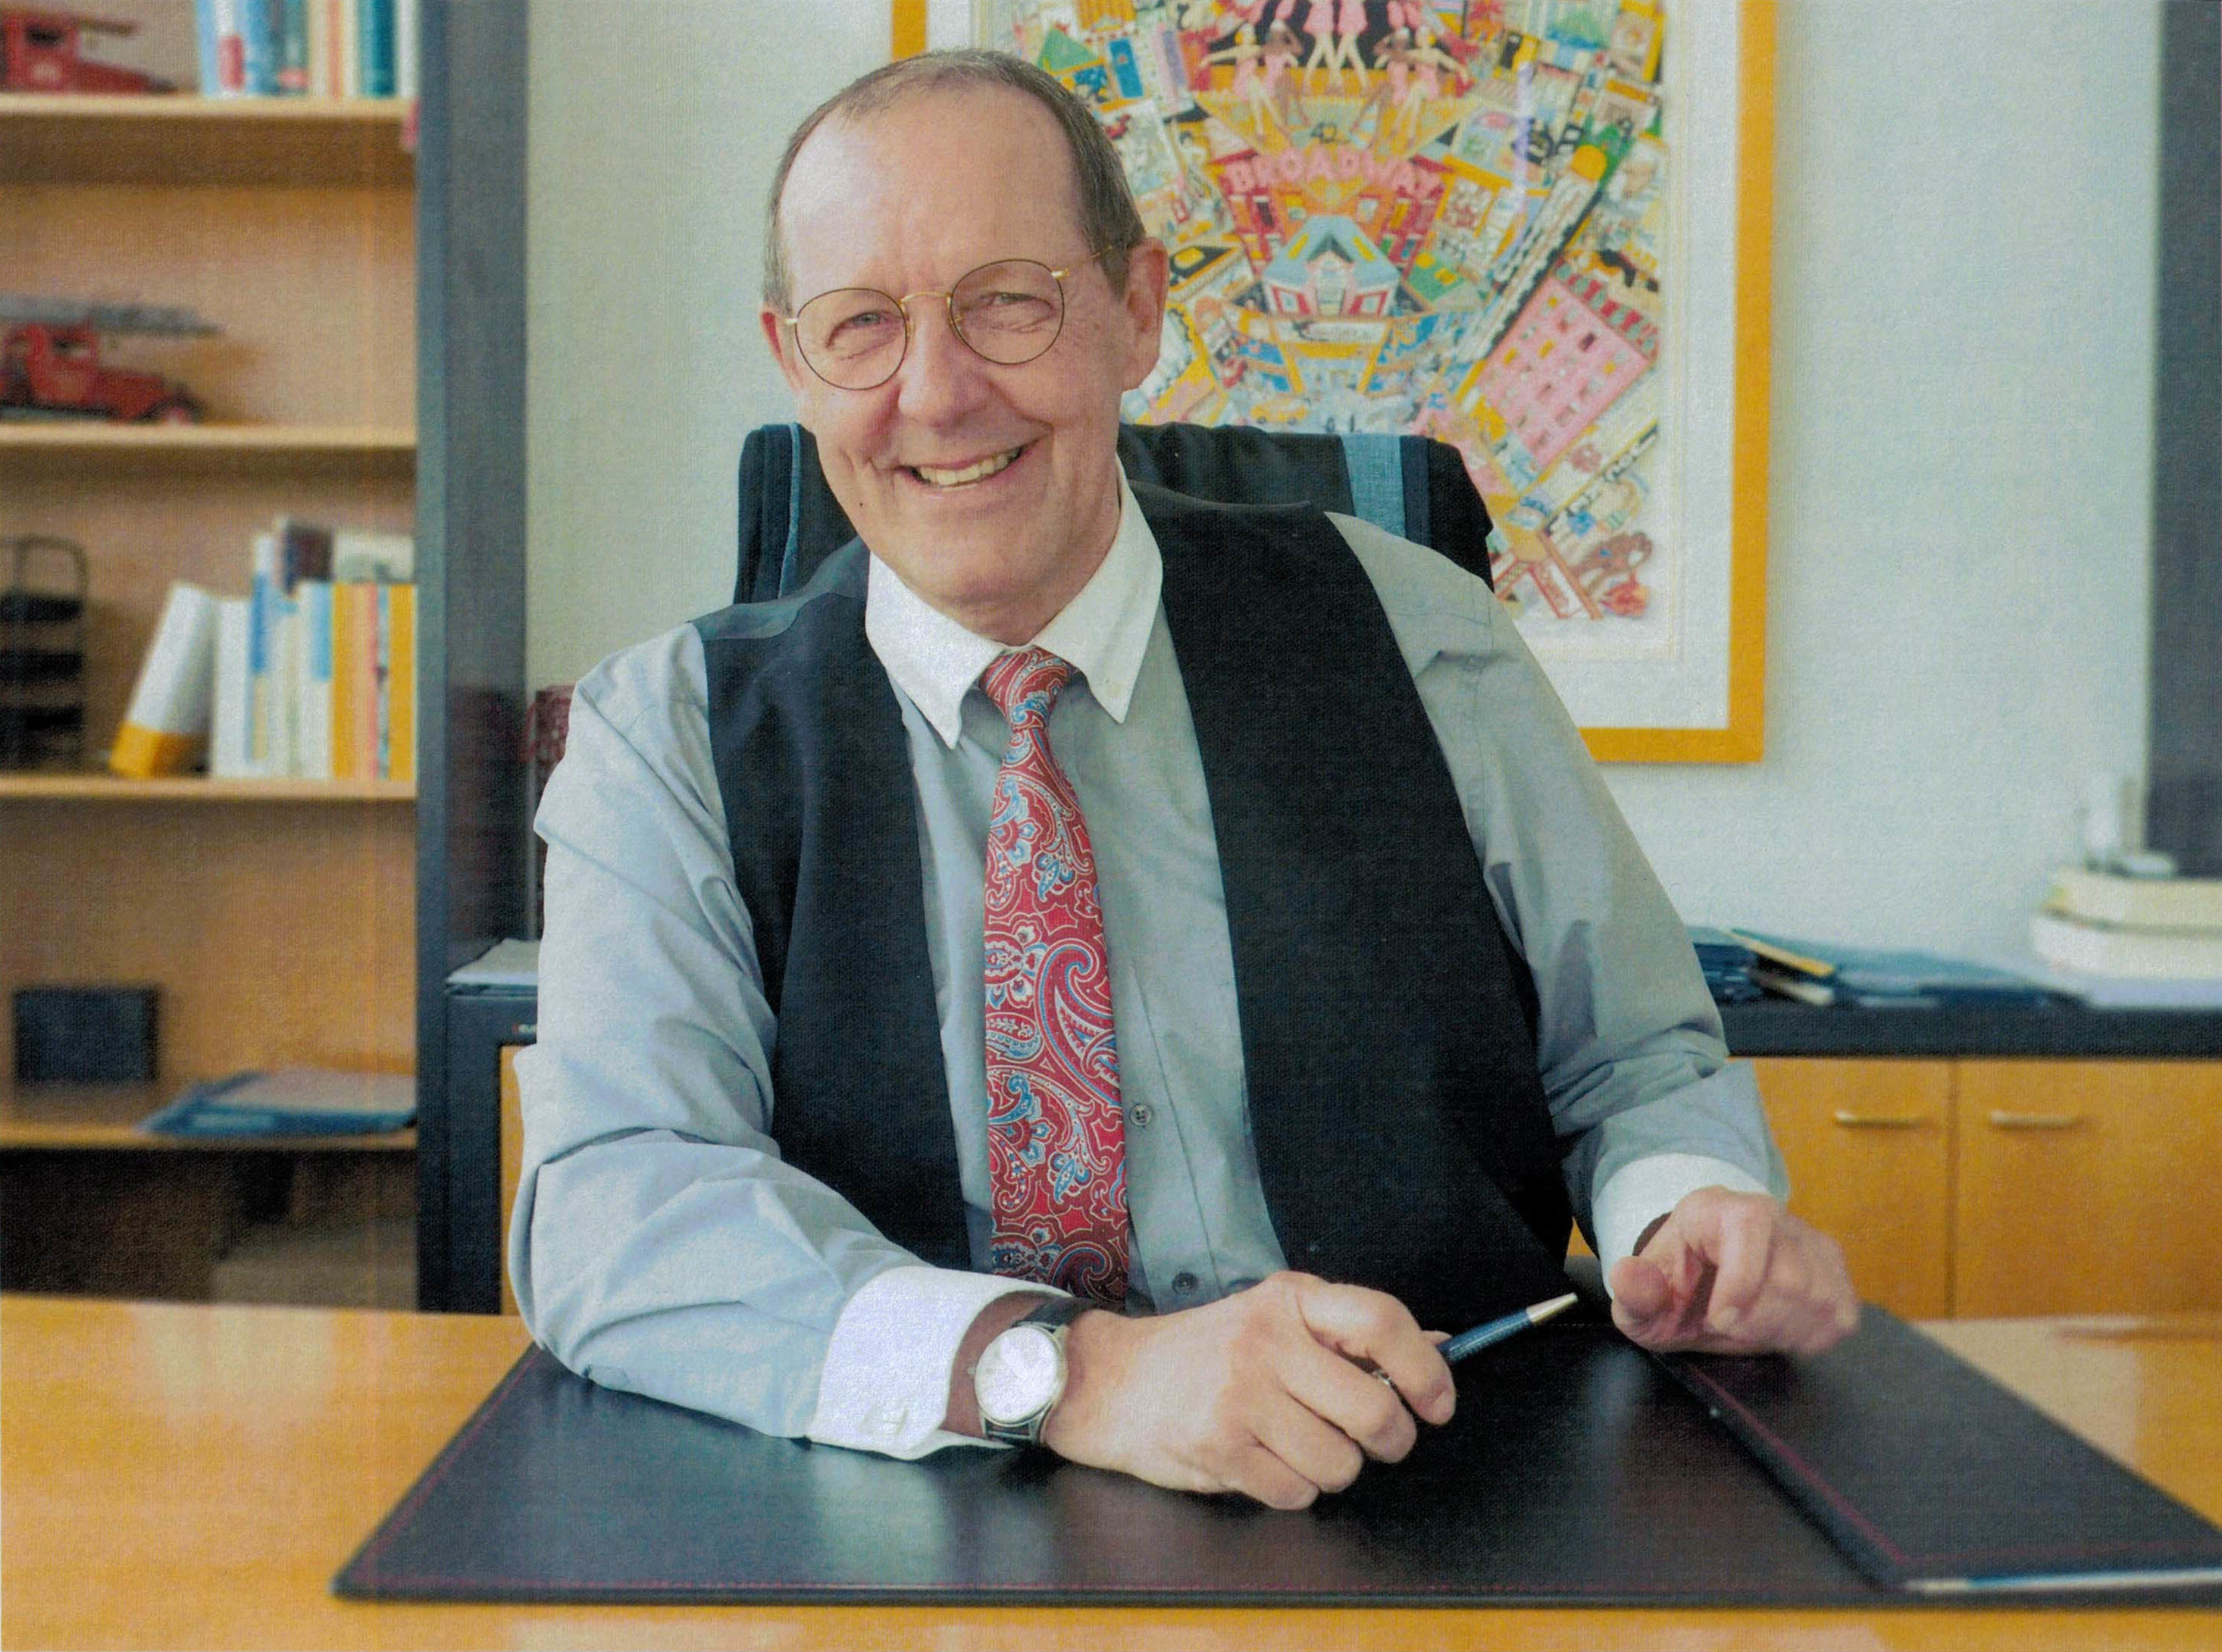
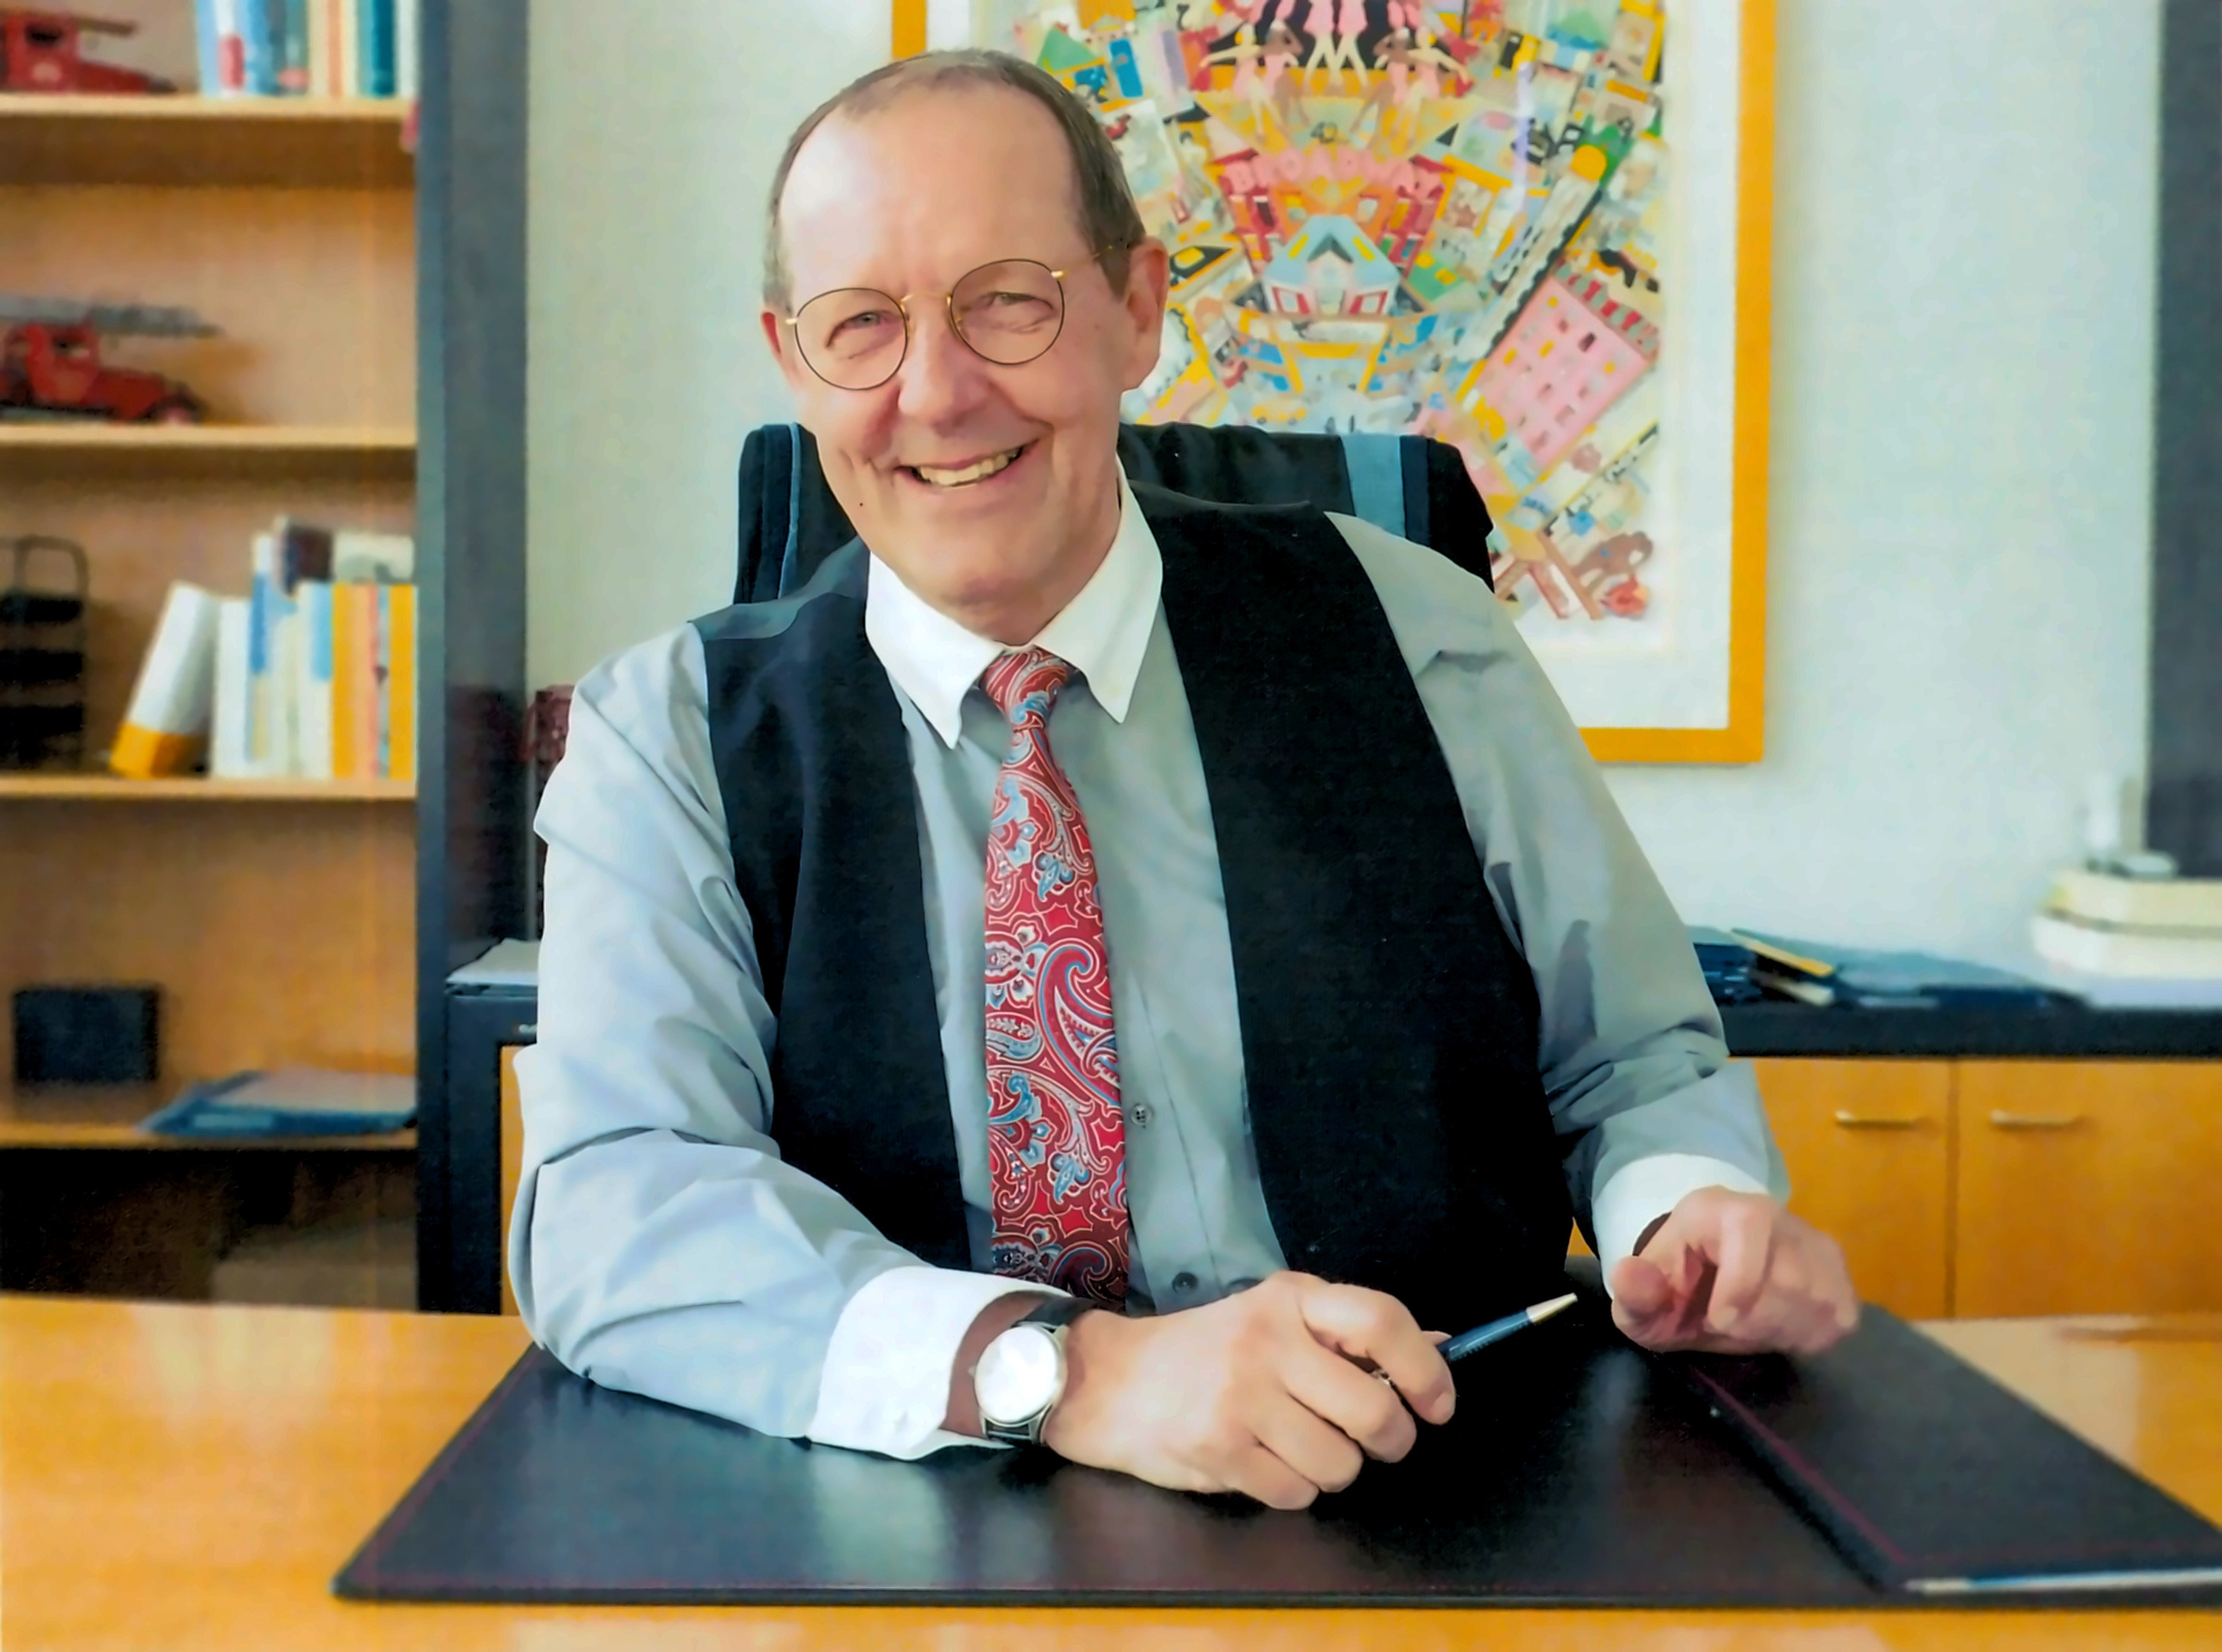
improve portrait with script

diff --git a/enhance_image.py b/enhance_image.py
@@ -1,0 +1,134 @@
+#!/usr/bin/env python3
+"""
+Bildverbesserung für gescannte Fotokopie
+=========================================
+Verarbeitet CCI_000001.jpg (gescannte Fotokopie) und erzeugt
+eine qualitativ verbesserte Version als portrait_enhanced.jpg.
+
+Alle Parameter als Konstanten – einfach oben anpassen und neu ausführen.
+"""
+
+import sys
+import os
+
+# ── Abhängigkeiten prüfen ────────────────────────────────────────────────────
+try:
+    import cv2
+    import numpy as np
+    from PIL import Image, ImageEnhance, ImageFilter
+except ImportError as e:
+    print(f"Fehlende Abhängigkeit: {e}")
+    print("Bitte installieren: pip install opencv-python pillow numpy")
+    sys.exit(1)
+
+# ── Parameter (hier anpassen) ────────────────────────────────────────────────
+
+INPUT_PATH  = "images/CCI_000001.jpg"
+OUTPUT_PATH = "images/portrait_enhanced.jpg"
+JPEG_QUALITY = 92          # 1–95, höher = besser aber größere Datei
+
+# Descreening (Halbtonraster entfernen)
+# Größerer Kernel = stärkeres Weichzeichnen des Rasters
+# Empfehlung: 3 (schwach) bis 7 (stark)
+DESCREEN_KERNEL  = 5       # muss ungerade sein
+DESCREEN_SIGMA   = 1.0     # Stärke des Gaußfilters
+
+# Rauschreduzierung (fastNlMeansDenoisingColored)
+# h/hColor: 1–10; höher = weniger Rauschen, aber weicheres Bild
+DENOISE_H        = 6
+DENOISE_H_COLOR  = 6
+DENOISE_TEMPLATE = 7       # Template-Fenstergröße (ungerade)
+DENOISE_SEARCH   = 21      # Suchfenster-Größe (ungerade)
+
+# Farbkorrektur (Pillow ImageEnhance.Color)
+# 1.0 = unverändert, >1.0 = kräftiger, <1.0 = blasser
+COLOR_ENHANCE    = 1.08
+
+# Kontrast (Pillow ImageEnhance.Contrast)
+# 1.0 = unverändert, 1.2 = +20 % Kontrast
+CONTRAST_ENHANCE = 1.18
+
+# Helligkeit (Pillow ImageEnhance.Brightness)
+# 1.0 = unverändert, 1.05 = leicht heller
+BRIGHTNESS_ENHANCE = 1.05
+
+# Unschärfemaske (Schärfe zurückgewinnen nach Weichzeichnung)
+# radius: Radius des Unschärfe-Halos (px)
+# percent: Stärke der Schärfung in %
+# threshold: Mindestunterschied für Schärfung (0–255)
+UNSHARP_RADIUS    = 1.5
+UNSHARP_PERCENT   = 130
+UNSHARP_THRESHOLD = 3
+
+# ── Verarbeitung ─────────────────────────────────────────────────────────────
+
+def main():
+    if not os.path.exists(INPUT_PATH):
+        print(f"Fehler: Eingabedatei nicht gefunden: {INPUT_PATH}")
+        sys.exit(1)
+
+    print(f"Lade Bild: {INPUT_PATH}")
+    img_cv = cv2.imread(INPUT_PATH)
+    if img_cv is None:
+        print("Fehler: Bild konnte nicht geladen werden.")
+        sys.exit(1)
+
+    h, w = img_cv.shape[:2]
+    print(f"Bildgröße: {w} x {h} px")
+
+    # 1. Descreening – Halbtonraster (Druckpunkte der Fotokopie) entfernen
+    print("Schritt 1/5: Descreening (Gaußfilter) …")
+    img_cv = cv2.GaussianBlur(img_cv, (DESCREEN_KERNEL, DESCREEN_KERNEL), DESCREEN_SIGMA)
+
+    # 2. Rauschreduzierung
+    print("Schritt 2/5: Rauschreduzierung …")
+    img_cv = cv2.fastNlMeansDenoisingColored(
+        img_cv,
+        None,
+        h=DENOISE_H,
+        hColor=DENOISE_H_COLOR,
+        templateWindowSize=DENOISE_TEMPLATE,
+        searchWindowSize=DENOISE_SEARCH,
+    )
+
+    # 3. Konvertierung zu Pillow (BGR → RGB)
+    img_pil = Image.fromarray(cv2.cvtColor(img_cv, cv2.COLOR_BGR2RGB))
+
+    # 4. Farbkorrektur
+    print("Schritt 3/5: Farbkorrektur …")
+    img_pil = ImageEnhance.Color(img_pil).enhance(COLOR_ENHANCE)
+
+    # 5. Kontrast
+    print("Schritt 4/5: Kontrast & Helligkeit …")
+    img_pil = ImageEnhance.Contrast(img_pil).enhance(CONTRAST_ENHANCE)
+    img_pil = ImageEnhance.Brightness(img_pil).enhance(BRIGHTNESS_ENHANCE)
+
+    # 6. Schärfe zurückgewinnen (Unschärfemaske)
+    print("Schritt 5/5: Schärfen …")
+    img_pil = img_pil.filter(
+        ImageFilter.UnsharpMask(
+            radius=UNSHARP_RADIUS,
+            percent=UNSHARP_PERCENT,
+            threshold=UNSHARP_THRESHOLD,
+        )
+    )
+
+    # 7. Speichern
+    os.makedirs(os.path.dirname(OUTPUT_PATH), exist_ok=True)
+    img_pil.save(OUTPUT_PATH, "JPEG", quality=JPEG_QUALITY, optimize=True)
+
+    size_in  = os.path.getsize(INPUT_PATH)  / 1024
+    size_out = os.path.getsize(OUTPUT_PATH) / 1024
+    print(f"\nFertig!")
+    print(f"  Eingabe:  {INPUT_PATH}  ({size_in:.0f} KB)")
+    print(f"  Ausgabe:  {OUTPUT_PATH}  ({size_out:.0f} KB)")
+    print(f"\nParameter zum Feinjustieren (oben im Skript):")
+    print(f"  Descreening:  DESCREEN_KERNEL={DESCREEN_KERNEL}, DESCREEN_SIGMA={DESCREEN_SIGMA}")
+    print(f"  Rauschen:     DENOISE_H={DENOISE_H}, DENOISE_H_COLOR={DENOISE_H_COLOR}")
+    print(f"  Farbe:        COLOR_ENHANCE={COLOR_ENHANCE}")
+    print(f"  Kontrast:     CONTRAST_ENHANCE={CONTRAST_ENHANCE}")
+    print(f"  Helligkeit:   BRIGHTNESS_ENHANCE={BRIGHTNESS_ENHANCE}")
+    print(f"  Schärfe:      UNSHARP_RADIUS={UNSHARP_RADIUS}, UNSHARP_PERCENT={UNSHARP_PERCENT}")
+
+if __name__ == "__main__":
+    main()